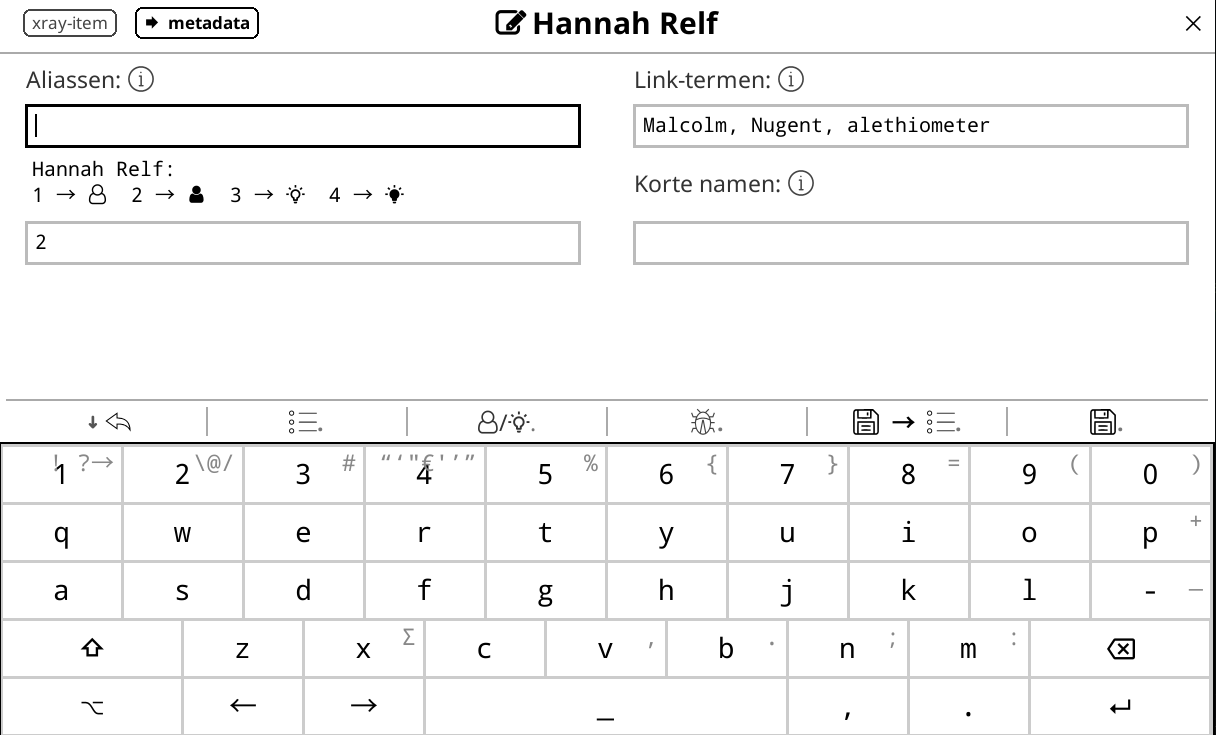
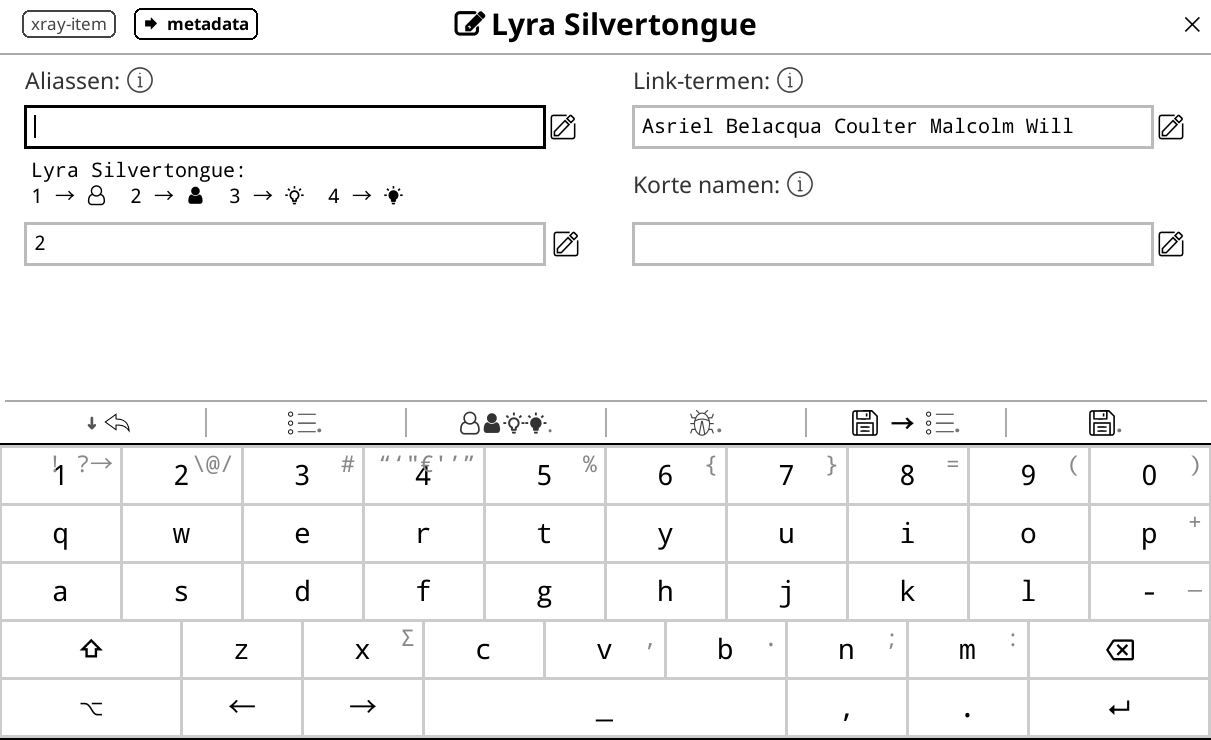
MultiInputDialog: add edit field buttons to two field rows

diff --git a/README.md b/README.md
@@ -123,6 +123,9 @@ DX uses mostly buttons with only icons, so without explanatory labels. However, 
 ![07 Xray item editor tab 2](images/07-xray-item-editor-tab-2.png)
 07 Xray item editor tab 2
 
+![07b Larger field editor](images/07b-larger-field-editor.png)
+07b Larger field editor, called with edit button next to field. Handy for fields with longer content.
+
 ![08 Help info for buttons](images/08-help-info-for-buttons.png)
 08 Help info for buttons
 
